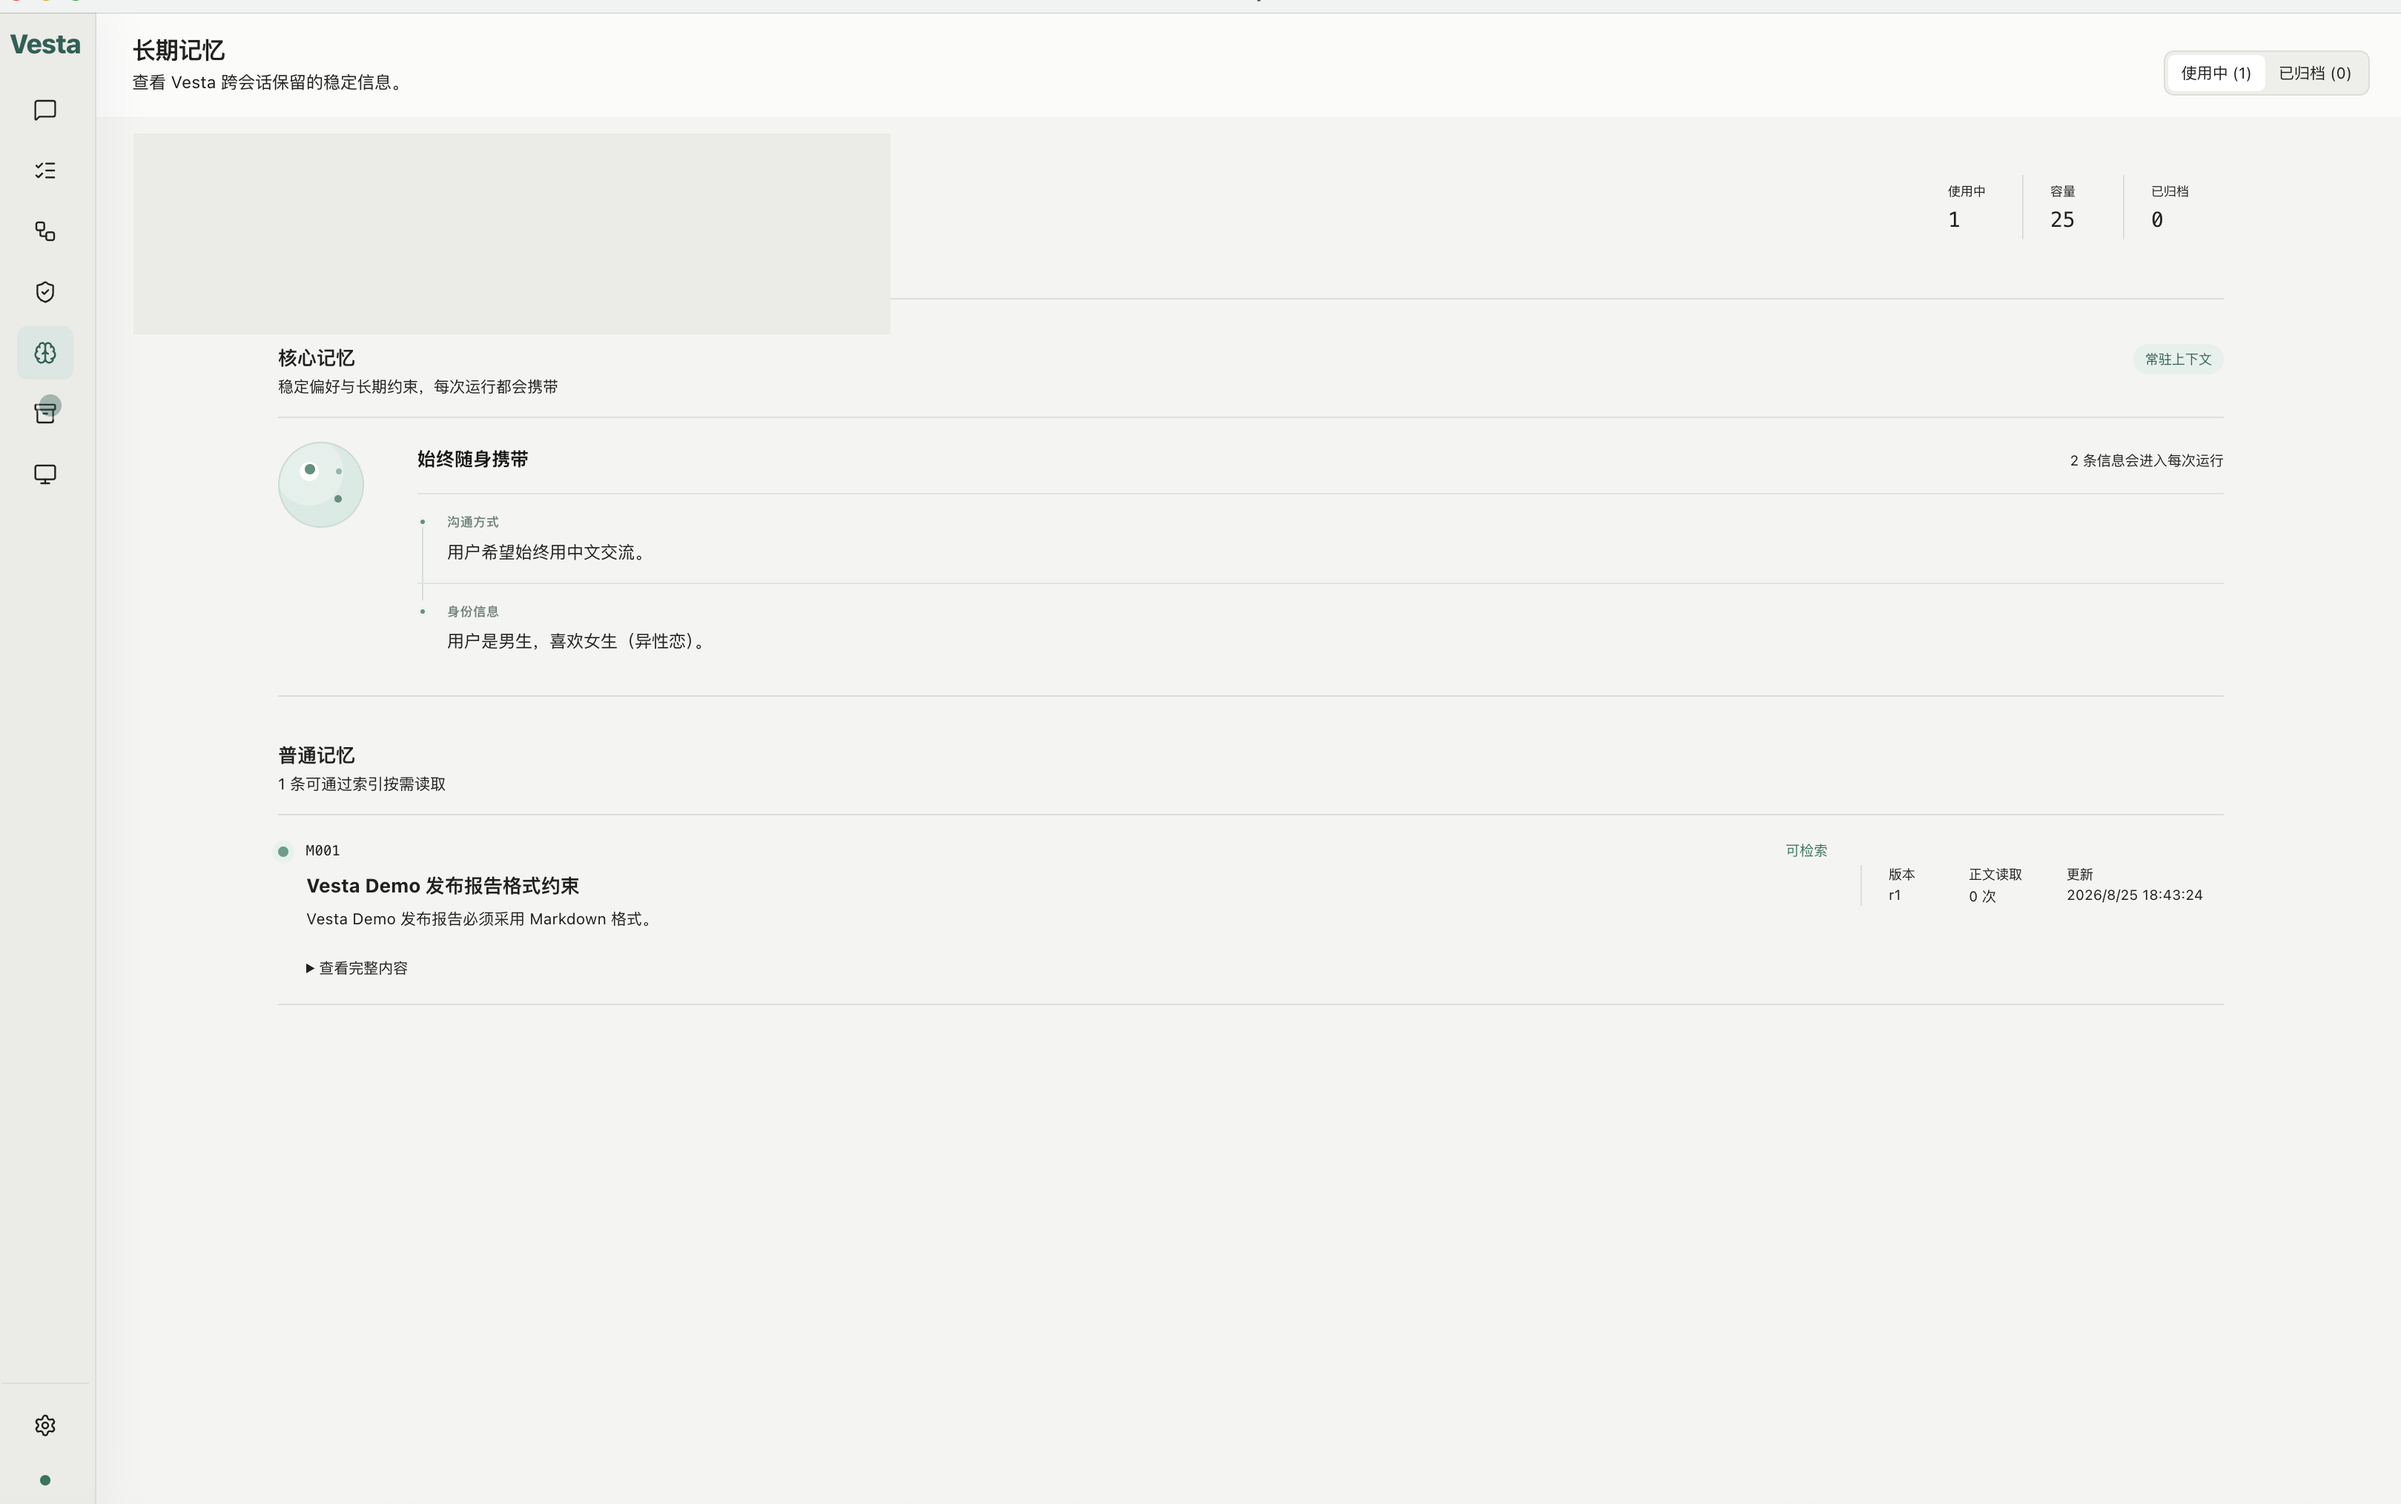
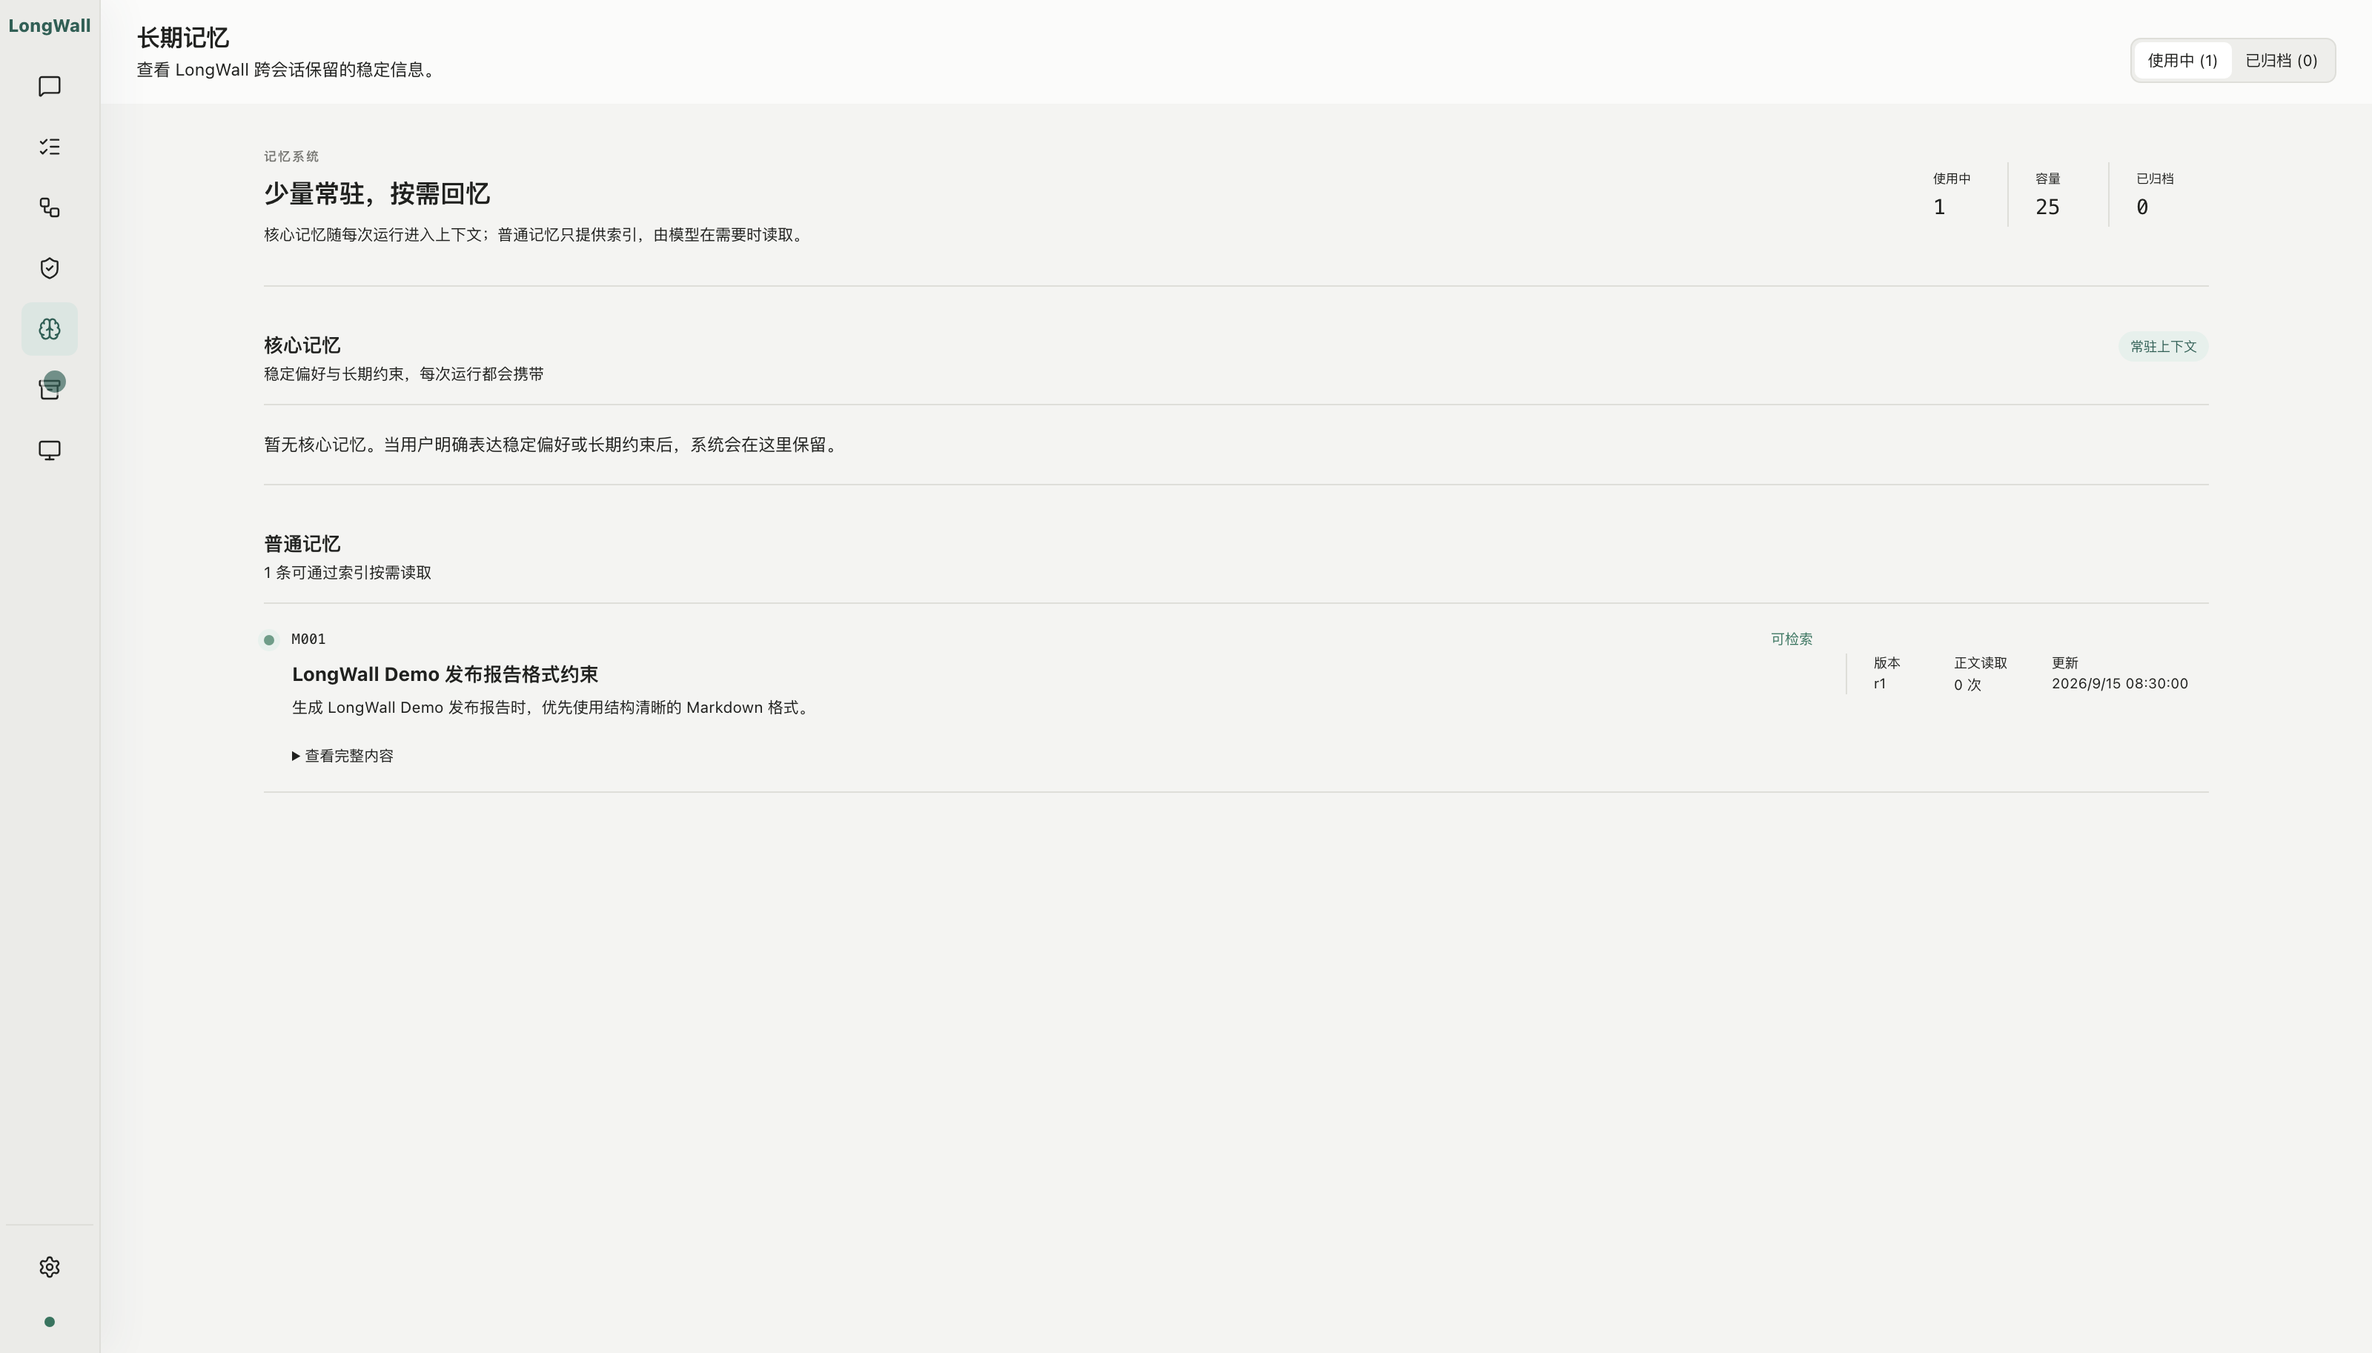
docs: refresh LongWall demo screenshots

diff --git a/desktop/src/pages/ChatPage.tsx b/desktop/src/pages/ChatPage.tsx
@@ -543,7 +543,7 @@ export default function ChatPage({
           <div className="message-thread">
             {selectedId === null ? (
               <section className="no-conversation">
-                <div className="chat-empty__mark">V</div>
+                <div className="chat-empty__mark" aria-hidden="true">L</div>
                 <h1>开始一项新工作</h1>
                 <p>创建会话，然后告诉 LongWall 你希望完成的结果。</p>
                 <button

diff --git a/desktop/src/components/ChatEmptyState.tsx b/desktop/src/components/ChatEmptyState.tsx
@@ -51,7 +51,7 @@ export default function ChatEmptyState({
   return (
     <section className="chat-empty" aria-label="开始新会话">
       <div className="chat-empty__eyebrow">
-        <span className="chat-empty__mark">V</span>
+        <span className="chat-empty__mark" aria-hidden="true">L</span>
         <span>新的工作空间</span>
       </div>
       <h1>今天想让 LongWall 帮你完成什么？</h1>

diff --git a/desktop/src/index.css b/desktop/src/index.css
@@ -3003,9 +3003,10 @@ body::before { display: none; }
   background: transparent;
   box-shadow: none;
   color: var(--accent);
-  font-size: 18px;
+  font-size: 12px;
   font-weight: 800;
-  letter-spacing: -0.02em;
+  letter-spacing: 0;
+  white-space: nowrap;
 }
 .nav-item { width: 38px; height: 36px; border-radius: 7px; }
 .nav-item.active { color: var(--accent); background: #dce6e2; }
